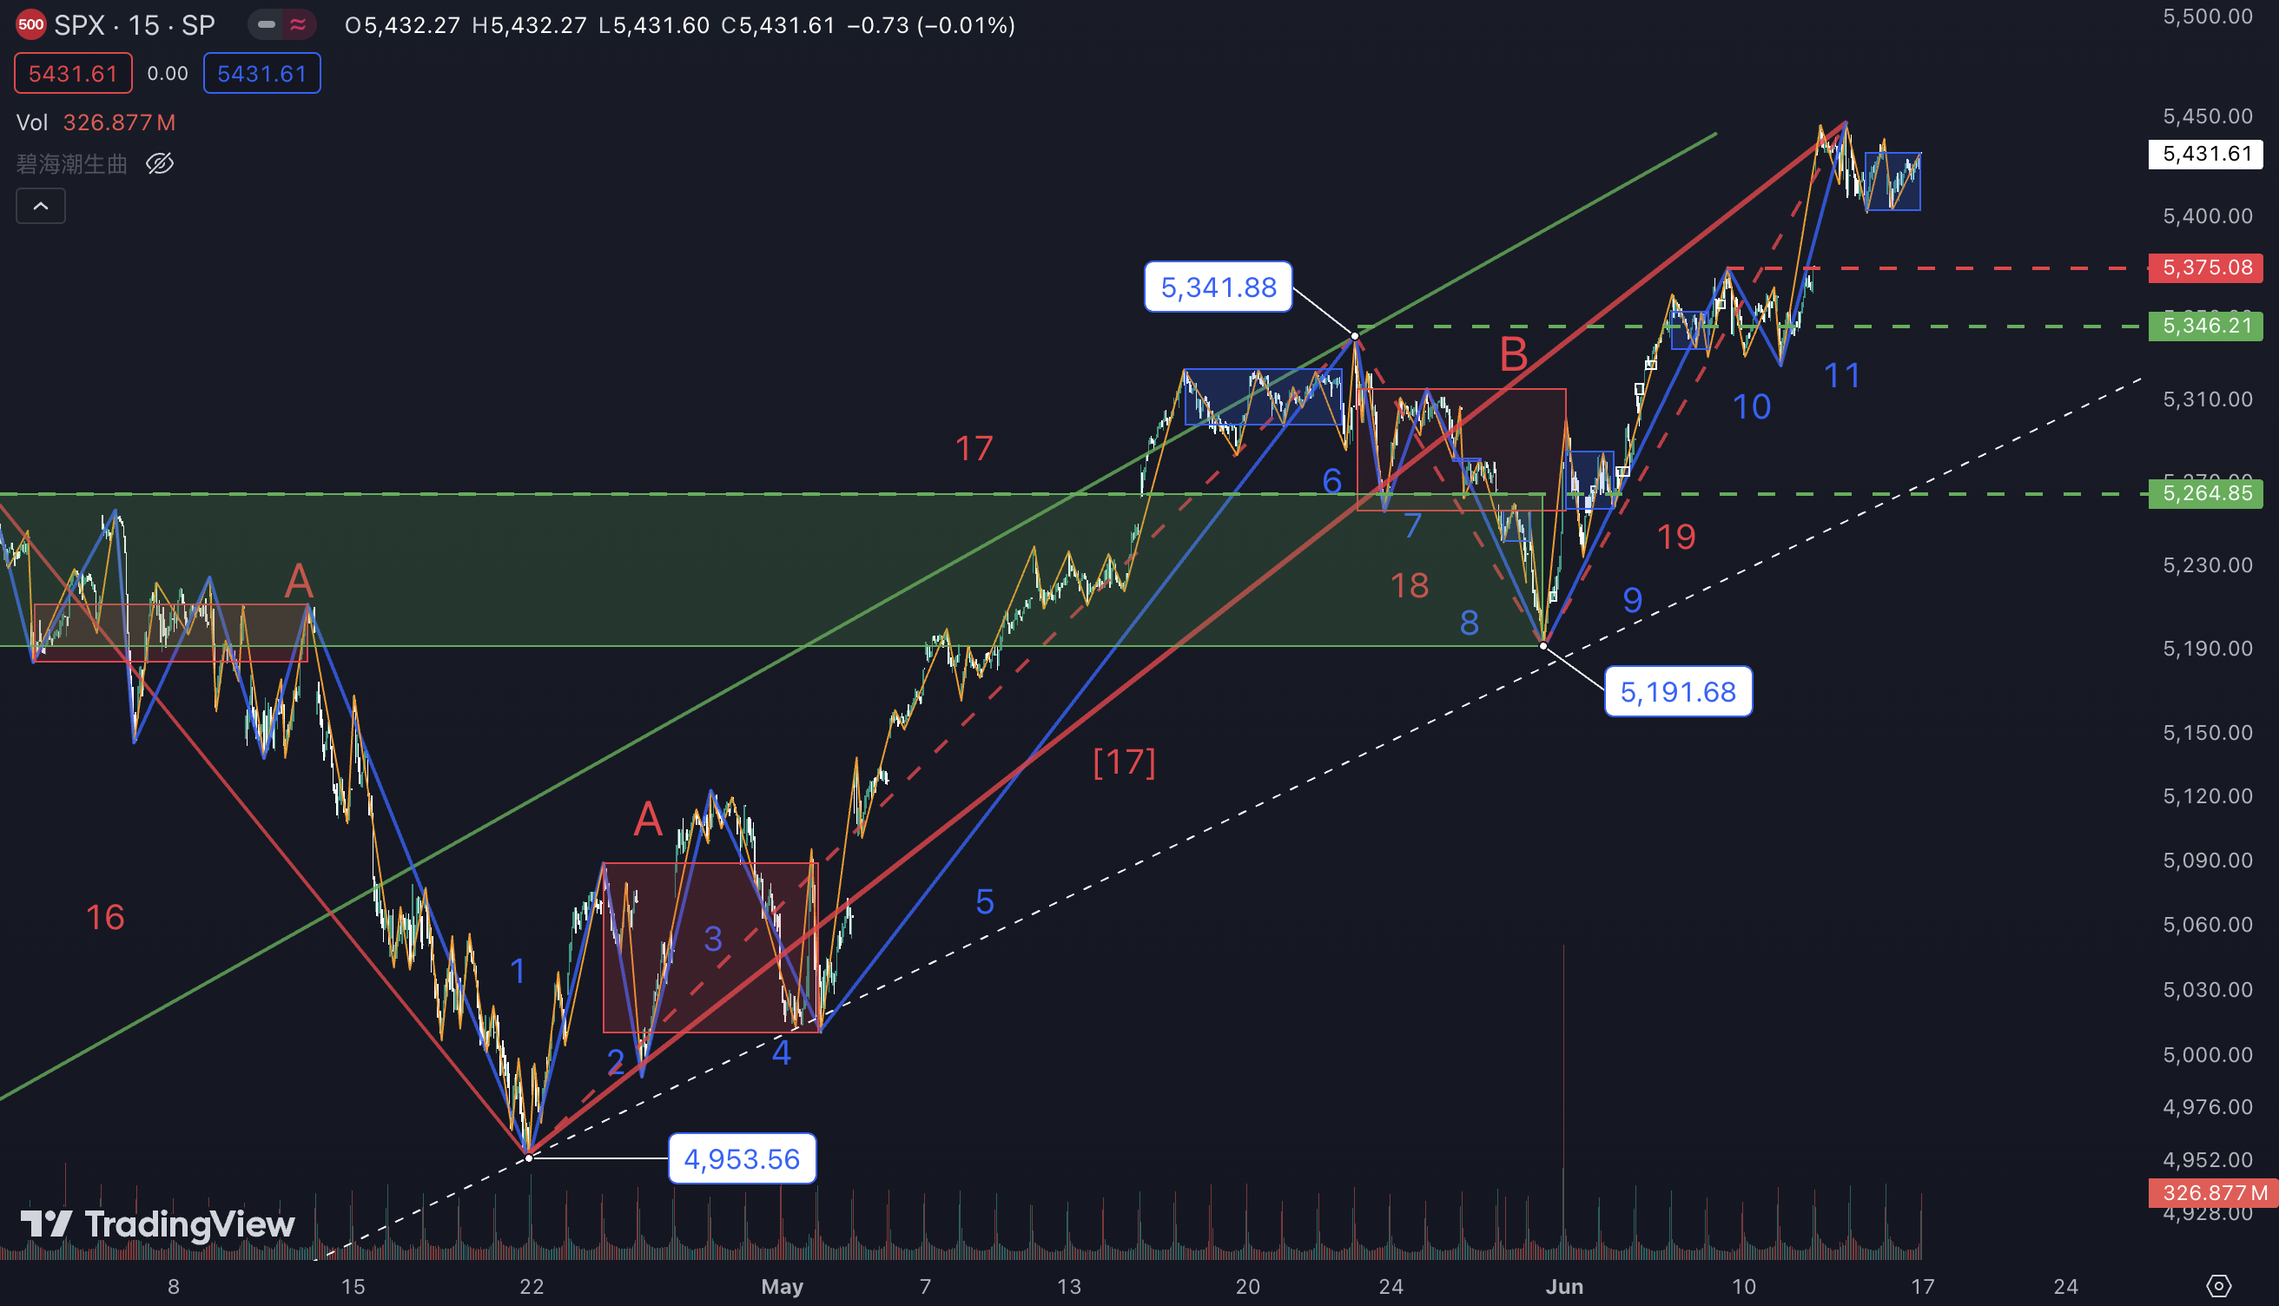
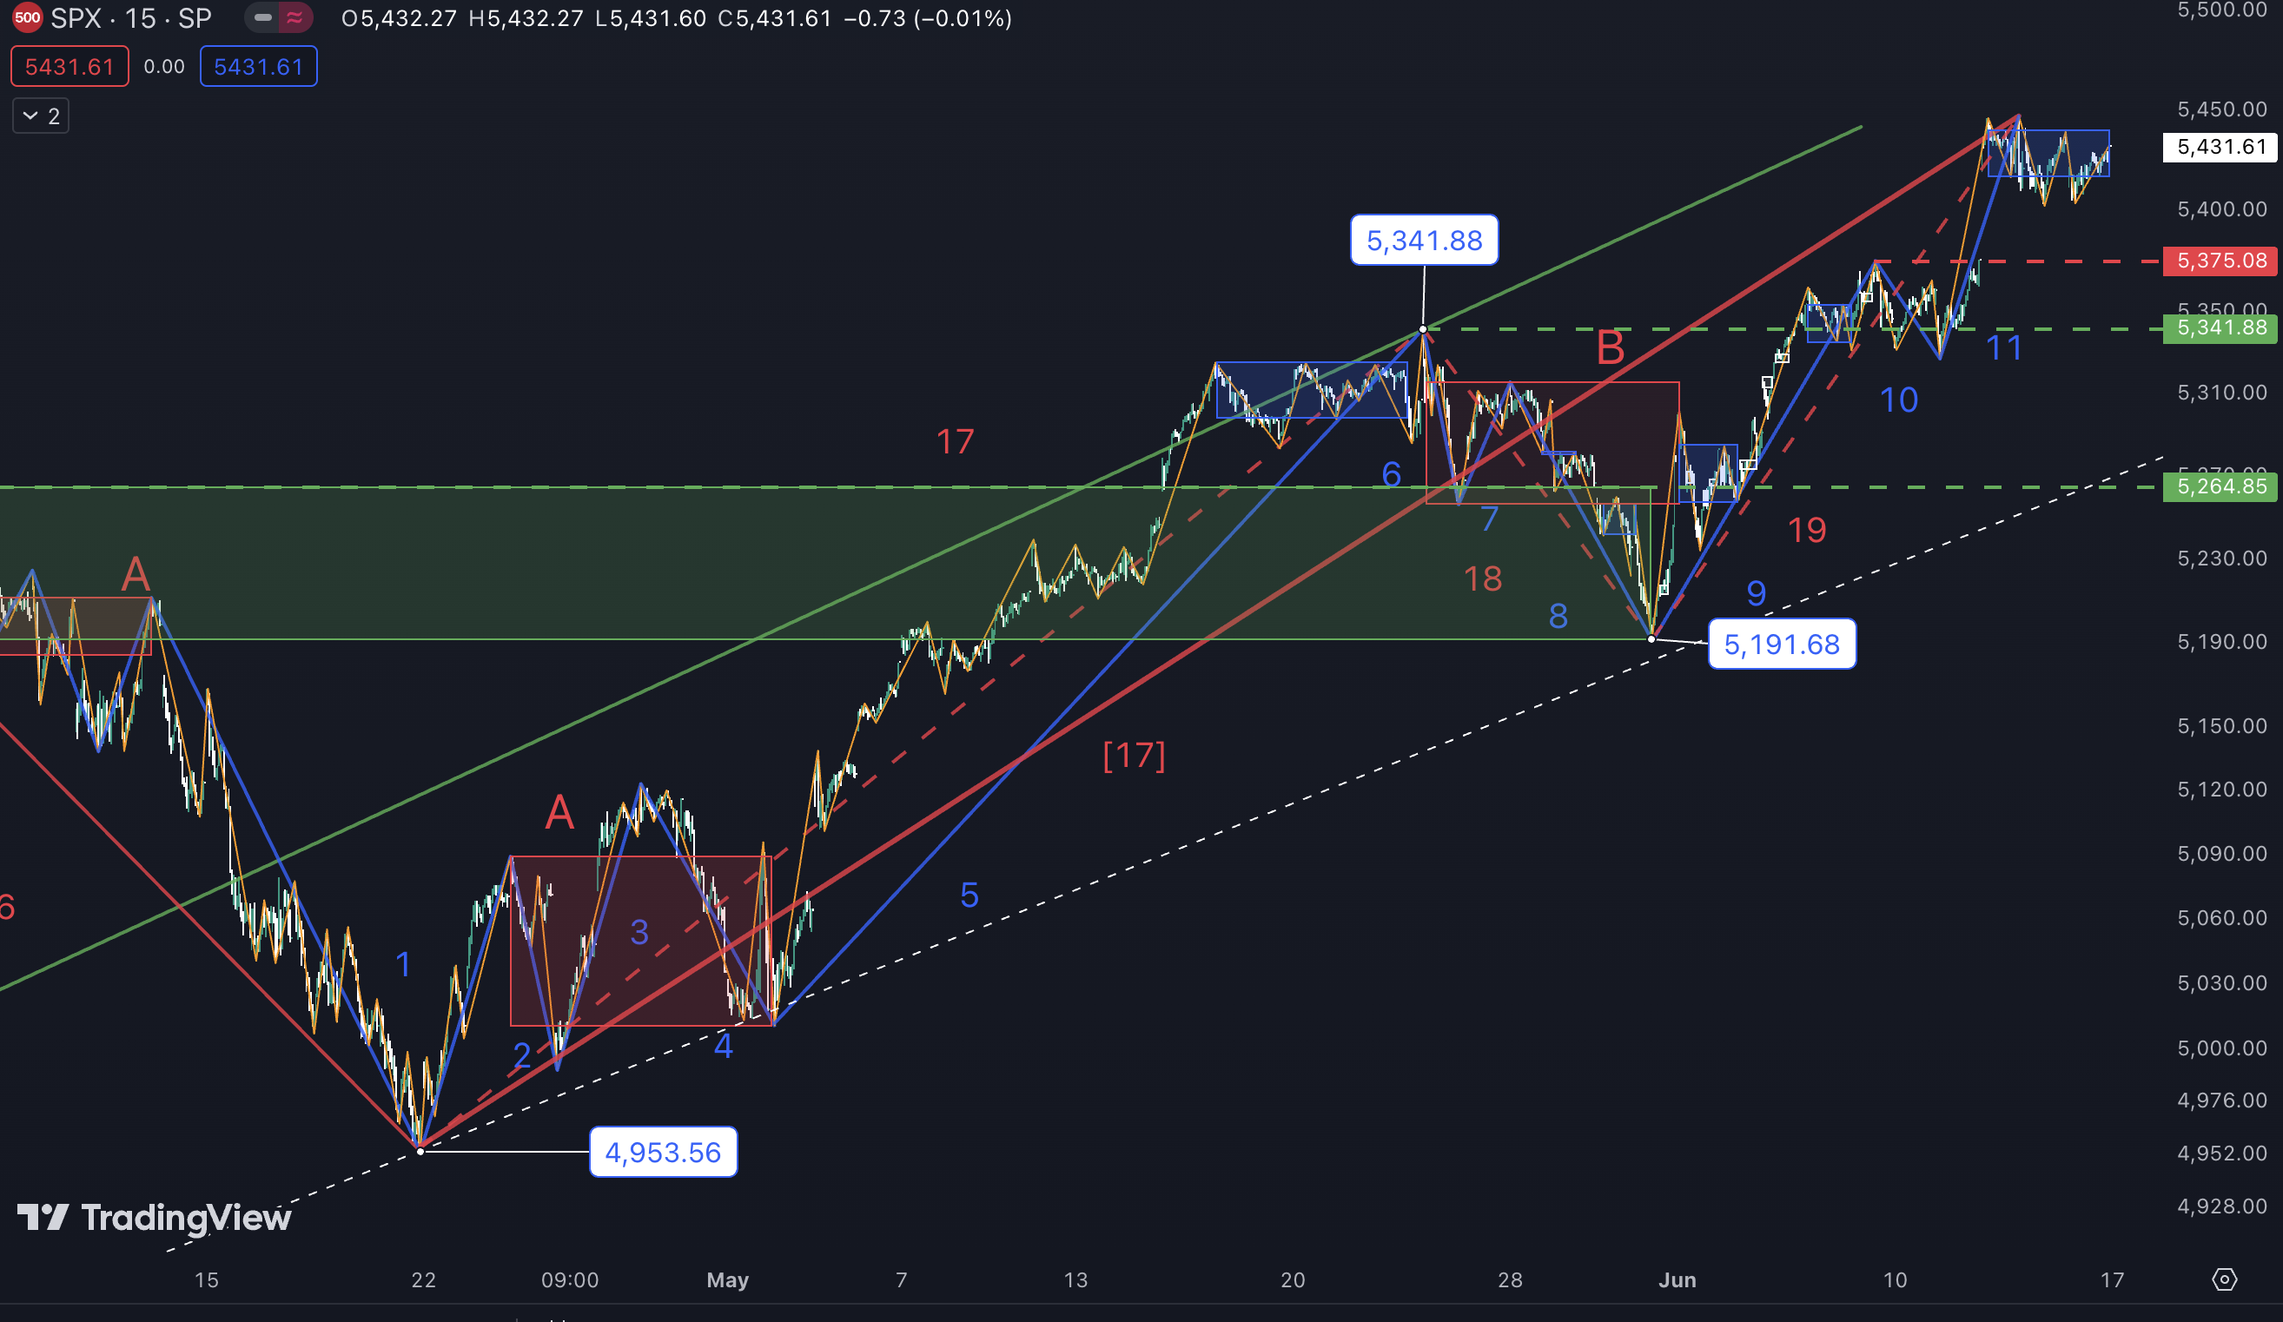
20240615

diff --git a/_posts/2024-06-14-posts-SPX.md b/_posts/2024-06-14-posts-SPX.md
@@ -14,31 +14,56 @@ tags:
   - SPX
 ---
 
-上周按4953上来的红17没有结束来分解中提到还有一个蓝下蓝上并创新高，本周针对第二个红色中枢出了3买后创出新高。红17结构饱满，蓝11结束后**如**和蓝9形成背驰，红17可以全部结束。
+### K线/均线观察
 
-如按照红17结束于5341.88来分解，红19上中走出3段蓝9/10/11，蓝11**如**结束后和蓝9背驰，可按照线段类背驰分析，和上面红17全部结束相得益彰，可按照红上进入中阴阶段来跟随生长。下面可重点到小级别去观察蓝11如何结束。
+本周标普SPX再创新高，周K线收中体阳K Bar，收盘在呈多头排列的均线组MA5/10/20/50/250之上。MACD快慢线在零轴之上粘合后，快线再次上传慢线形成金叉。周线图上股价新高，快慢线尚未创新高，但绿柱子本周由红开始转为绿。
+
+日线图上，本周标普SPX周三早盘CPI数据发布后跳空高开，当天收一根带上影线的阳K，周四收一根带下影线的阴K，周二/三/四这三天的K bar形成一个非常弱的顶分型形态，周五收一根带下影线的阳K，且周五高低点在周四高低点区间之内呈被包含关系，短线呈犹豫观望状。从K Bar形态来看，本周后三天的K Bar上下震荡多空争夺互有胜负，势均力敌。短线关注周四周五的包含关系是被向上打破使得日线弱顶分型成为中继顶分型，还是被向下打破进一步确认顶分型。
+
+日K线继续收在呈多头排列的均线组MA5/10/20/50/250之上。MACD快慢线在上周再次金叉后本周开口逐渐扩大，对应的绿柱子不断增高，周五绿柱子增速减缓。
+
+![SPX标普20240614](/assets/images/2024/2024-06-14-SPX-j.jpg)
+<small><center>标普SPX周/日线图（截止204/06/14）</center></small>　
+
+### 缠图分析
+
+自4953上来走出了11段蓝色级别走势，其中蓝2/3/4形成第一个红色级别中枢A，蓝6/7/8构成第二个红色级别中枢B，蓝9以趋势上离开中枢B后，蓝10盘整下针对红色中枢B形成3买，蓝11再次离开并创出新高。自4953上来的走势看成是有标准”a+A+b+B+c“结构的红【17】上，目前在小c段。蓝11的结束位置将是判断趋势背驰和红【17】上是否可以全部结束的关键。
+
+按照多义性同级别分解，自4953上来的11段蓝色级别走势，可以按下面缠图中虚线所示分解成红17/18/19三段红色级别走势，当下未确定完成的红19上是由蓝9/10和未确定完成的蓝11三段构成。其中蓝11确认结束的位置，也是考量红19上是否可以满足以最低的线段类盘整上结束的重要依据。
 
 ![SPX标普20240614](/assets/images/2024/2024-06-14-SPX-15minute.png)
 <small><center>标普SPX十五分钟走势图（截止204/06/14）</center></small>　
 
-蓝11上内部已经形成一个由黄2/3/4/5/6组成的蓝色中枢，同级别分解蓝11可以结束在黄3高点，但需要破黄4下低点来确认，否则可围绕最后蓝色这个蓝色中枢继续向上生长，甚至走出和蓝9不背驰，还可以盘出9段升级成红色中枢，无论上面两种多义性分解都不能确认红上结束。如黄4低点在9段升级之前被跌破，则蓝下确认，下面观察5375.08是否触及，不破，仍可视为5191.68上来的线段类红色级别上涨继续。黄4下低点5402.5是短线重点观察点位。
+下面我们来观察蓝11内部走势：
 
-未来蓝下在力度上可以观察5375.08/5346.21/5264.85这三个点位是否被跌破。分别对应红19上线段类上涨结束，形成一个标准红色中枢；跌破绿色中枢波动高点，绿中枢被扩展；回到绿色中枢内部，绿中枢震荡延伸。
+蓝11上内部已经形成一个由黄2/3/4组成的蓝色中枢A，随后的黄5/6/7围绕此蓝色中枢A震荡延伸，蓝色中枢A内部已包含6段走势，面临9段升级成红色级别中枢的可能，目前黄4的高低点构成了此蓝色中枢A的高中高和低中低。同级别分解蓝11可以结束在黄3高点，但需要黄4低点被跌破来确认，否则走势可围绕蓝色中枢A继续延伸超过9段而升级，或蓝色中枢A被向上破坏，出现第三买点后蓝11可继续向上生长。无论哪种情况，上面两种多义性分解中的红【17】上或红19上都没有结束。黄4下低点5402.5是蓝11上可以结束的必要条件（但非充分条件）。如果黄4低点在9段升级之前被跌破且未上破黄3高点，可视蓝11被确认结束于黄3高点，蓝下开启，上文走势分解中的红【17】可视为进入中阴阶段，这时候可转为选择以5191.68为起点开始观察红色级别向上走势的生长。
+
+对于未来的蓝下以及生长出的可能的红下，我们在力度上可以选取5375.08/5341.88/5264.85这三个点位是否被跌破来考察走势结构的变化。这三个点位被跌破分别对应：1. 红19线段类上涨结束，形成了一个标准红色中枢；2. 跌破绿色中枢波动高点，绿色中枢扩展；3. 回到绿色中枢内部，绿色中枢震荡延伸。
 
 ![SPX标普20240614](/assets/images/2024/2024-06-14-SPX-5minute.png)
 <small><center>标普SPX五分钟走势图（截止204/06/14）</center></small>　
 
-接下来的买点机会有：蓝下如不破5375.08的红上类2买，破了可按照红19上的生长及如何结束来跟随。如生长成红下，对下面绿色中枢还有个绿上3买机会。
+### 做多机会：
+
+从做多角度，接下来买点机会有：蓝下如不破5375.08，视为红上类3买；破了5375.08，可根据最终形成的红19上内部红色中枢去寻找第三类买点和围绕最后的红色中枢的震荡买点；如生长成了红下，对下面绿色中枢还有个绿上3买机会。
 
 ### 小结：
 
-1. 蓝色级别：蓝11可结束，尚未确认结束。关注点位5402.5和历史高点。
-2. 红色级别：如按红17上是否结束分解，目前结构饱满，红17上具备全部结束的条件；同级别如分解成红19上，红19上具备最小的蓝色上下上就结束的条件，但不能确认结束。蓝11结束后和前面如有趋势背驰，就可视为红色级别进入中阴生长阶段。关注点位有5375.08/5346.21。
-3. 绿色级别：绿上没结束。5264.85之上关注3买的机会。
+1. 标普SPX在周线日线图上均呈现出均线组MA5/10/20/50/250多头排列的形态，短线日线在本周三跳空高开后横盘整理了3天。MA5之上不宜看空。
+2. 蓝色级别：蓝11不能确认结束。蓝色级别关注点位5402.5和历史高点。
+3. 红色级别：如按红17上是否结束分解，目前结构饱满，红17上在走小c段，关注是否有背驰从而进入红色级别的中阴生长。从多义性角度，可选择从5191.68作为起点观察红19上的生长。关注点位有5375.08/5341.88。
+4. 绿色级别：绿上没结束。5264.85之上关注3买的机会。
+
+### 缠论原文摘录
+
+在一名能充分直观的阅读者眼里，多义性是不存在的，而当这种最明锐的直觉还没出现时，对走
+势多义性的分析依然必要，因此也必须继续。换句话说，如果玩不了超逻辑的游戏，那只能继续在逻辑的圈子里晃悠。除了上面两种多义性，还有一种有实质意义的多义性，也就是走势分析中的多种合理释义，这些释义都符合理论内在的逻辑，因此，这种多义性反而不是负担，而是可以用多角度对走势进行一个分析。——摘自《教你炒股票33：走势的多义性》
+
+边界条件分段后，就要确定一旦发生哪种情况就如何操作，也就是把操作也同样给分段化了。然
+后，把所有情况交给市场本身，让市场自己去当下选择。例如，前几天，缠中说禅用前期两高点和 10日线进行分类，那自然就把走势区间分类成跌破与不跌破两种。然后预先设定跌破该怎么干，不跌破该怎么干，如此而已。这就是最本质的预测，不测而测，让市场自己去选择。最后市场选择了不跌破，那就继续持有。——摘自《教你炒股票68：走势预测的精确意义》
 
 **阅读说明**
 
-* 均线系统：蓝色为 MA5，橙色为 MA10，深绿色为MA50，深蓝色为MA250。
 * 缠图级别系统：紫色>深蓝色>绿色>红色>蓝色>黄色>橙色。根据操作或观察级别选用相应颜色作为本级别。
 * 缠图中虚线表示未来走势分类，仅代表方向，不代表力度，除了图中注明的参考点位，虚线起始点位置无实际意义。
 

diff --git a/temp/2024-06-14-posts-SPX.md b/temp/2024-06-14-posts-SPX.md
@@ -1,0 +1,58 @@
+# 2024年6月14日标普SPX复盘
+
+## K线/均线观察
+
+![SPX标普20240614](/assets/images/2024/2024-06-14-SPX-j.jpg)
+<small><center>标普SPX周/日线图（截止204/06/14）</center></small>　
+
+本周标普SPX再创新高，周K线收中体阳K Bar，收盘在呈多头排列的均线组MA5/10/20/50/250之上。MACD快慢线在零轴之上粘合后，快线再次上传慢线形成金叉。周线图上股价新高，快慢线尚未创新高，但绿柱子本周由红开始转为绿。
+
+日线图上，本周标普SPX周三早盘CPI数据发布后跳空高开，当天收一根带上影线的阳K，周四收一根带下影线的阴K，周二/三/四这三天的K bar形成一个非常弱的顶分型形态，周五收一根带下影线的阳K，且周五高低点在周四高低点区间之内呈被包含关系，短线呈犹豫观望状。从K Bar形态来看，本周后三天的K Bar上下震荡多空争夺互有胜负，势均力敌。短线关注周四周五的包含关系是被向上打破使得日线弱顶分型成为中继顶分型，还是被向下打破进一步确认顶分型。
+
+日K线继续收在呈多头排列的均线组MA5/10/20/50/250之上。MACD快慢线在上周再次金叉后本周开口逐渐扩大，对应的绿柱子不断增高，周五绿柱子增速减缓。
+
+## 缠图分析
+
+![SPX标普20240614](/assets/images/2024/2024-06-14-SPX-15minute.png)
+<small><center>标普SPX十五分钟走势图（截止204/06/14）</center></small>　
+
+自4953上来走出了11段蓝色级别走势，其中蓝2/3/4形成第一个红色级别中枢A，蓝6/7/8构成第二个红色级别中枢B，蓝9以趋势上离开中枢B后，蓝10盘整下针对红色中枢B形成3买，蓝11再次离开并创出新高。自495
+3上来的走势看成是有标准”a+A+b+B+c“结构的红17上，目前在小c段。蓝11的结束位置将是判断趋势背驰和红17上是否可以全部结束的关键。
+
+按照多义性同级别分解，自4953上来的11段蓝色级别走势，可以按下面缠图中虚线所示分解成红17上18下19上三段红色级别走势，当下未确定完成的红19上是由蓝9/10和未确定完成的蓝11三段构成。其中蓝11确认结束的位置，也是考量红19上是否可以满足以最低的线段类盘整上结束的重要依据。
+
+下面我们来观察蓝11内部走势：
+
+![SPX标普20240614](/assets/images/2024/2024-06-14-SPX-5minute.png)
+<small><center>标普SPX五分钟走势图（截止204/06/14）</center></small>　
+
+蓝11上内部已经形成一个由黄2/3/4组成的蓝色中枢A，随后的黄5/6/7围绕此蓝色中枢震荡延伸，蓝色中枢A内部已包含6段走势，面临9段升级成红色级别中枢的可能，目前黄4的高低点构成了此蓝色中枢A的高中高和低中低。同级别分解蓝11可以结束在黄3高点，但需要黄4低点被跌破来确认，否则走势可围绕蓝色中枢A继续延伸超过9段而升级，或蓝色中枢A被向上破坏，出现第三买点后蓝11继续向上生长。无论哪种情况，上面两种多义性分解中的红上都不能确认结束。因此黄4下低点5402.5是蓝11上可以结束的必要条件。
+
+如果黄4低点在9段升级之前被跌破且未破黄3高点，可视蓝11被确认结束在黄3高点蓝下开启，上文走势分解中的红17也可视为进入中阴阶段，这时候选择从5191.68作为起点开始观察红色级别向上的走势显得较为清晰和直接。
+
+对于未来的蓝下以及生长出的可能的红下，我们在力度上可以选取5375.08/5341.88/5264.85这三个点位是否被跌破来考察走势结构的变化。这三个点位被跌破分别对应：1. 红19线段类上涨结束，形成了一个标准红色中枢；2. 跌破绿色中枢波动高点，绿色中枢扩展；3. 回到绿色中枢内部，绿中枢震荡延伸。
+
+## 做多机会
+
+从做多角度，接下来买点机会有：蓝下如不破5375.08，视为红上类3买；破了5375.08，可根据最终形成的红19上内部红色中枢去寻找第三类买点和围绕最后的红色中枢的震荡买点；如生长成了红下，对下面绿色中枢还有个绿上3买机会。
+
+## 小结：
+
+1. 标普SPX在周线日线图上均呈现出均线组多头排列的形态，短线有整理需求。
+2. 蓝色级别：蓝11可结束，尚未确认结束。关注点位5402.5和历史高点。
+3. 红色级别：如按红17上是否结束分解，目前结构饱满，红17上在走小c段，关注是否有背驰从而进入红色级别的中阴生长。从多义性角度，可选择从5191.68作为起点观察红19上的生长。关注点位有5375.08/5341.88。
+4. 绿色级别：绿上没结束。5264.85之上关注3买的机会。
+
+## 缠论原文摘录
+
+在一名能充分直观的阅读者眼里，多义性是不存在的，而当这种最明锐的直觉还没出现时，对走
+势多义性的分析依然必要，因此也必须继续。换句话说，如果玩不了超逻辑的游戏，那只能继续在逻
+辑的圈子里晃悠。除了上面两种多义性，还有一种有实质意义的多义性，也就是走势分析中的多种合
+理释义，这些释义都符合理论内在的逻辑，因此，这种多义性反而不是负担，而是可以用多角度对走
+势进行一个分析。--摘自《教你炒股票33：走势的多义性》
+
+边界条件分段后，就要确定一旦发生哪种情况就如何操作，也就是把操作也同样给分段化了。然
+后，把所有情况交给市场本身，让市场自己去当下选择。例如，前几天，缠中说禅用前期两高点和 10
+日线进行分类，那自然就把走势区间分类成跌破与不跌破两种。然后预先设定跌破该怎么干，不跌破
+该怎么干，如此而已。这就是最本质的预测，不测而测，让市场自己去选择。最后市场选择了不跌破，
+那就继续持有。--摘自《教你炒股票 68：走势预测的精确意义》
